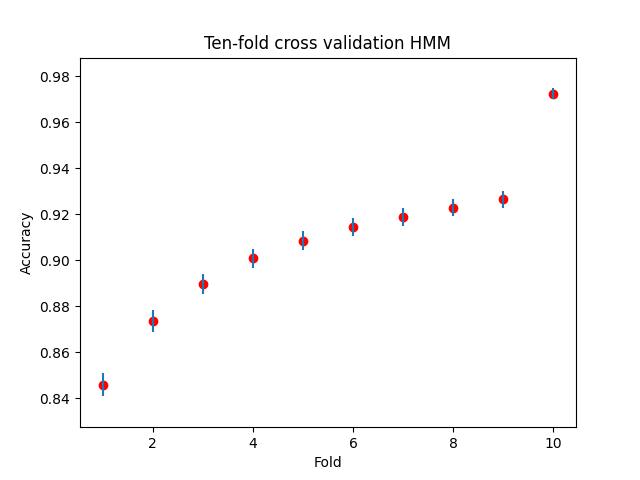
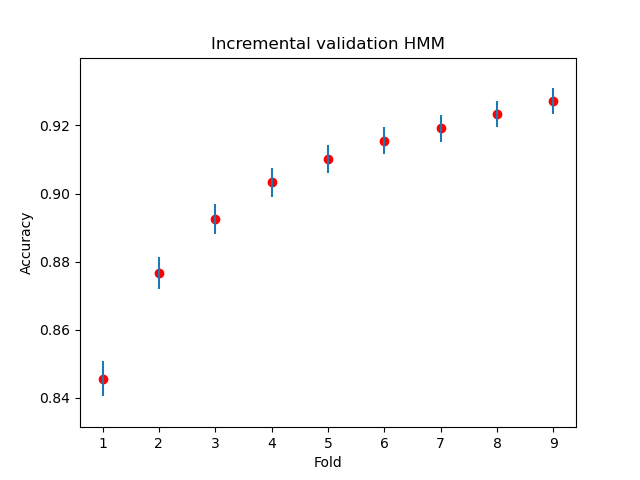
fix task2: change in title, removed from folds the test set

diff --git a/task2.py b/task2.py
@@ -5,7 +5,7 @@ def cessEsp_incremental_Hmm():
     acc_array = utils.incremental_test(corpus, 10, True, 'HMM')
     n = utils.get_num_of_words(10, corpus)
     ic = [utils.interval_trust(acc,n) for acc in acc_array]
-    utils.plot_model(results=acc_array, ic=ic, fold=10, model="HMM")
+    utils.plot_model(results=acc_array, ic=ic, fold=9, title='Incremental validation', model="HMM")
     for i in range(len(acc_array)):
         print(str(acc_array[i]) + " +- " + str(ic[i]))
 
